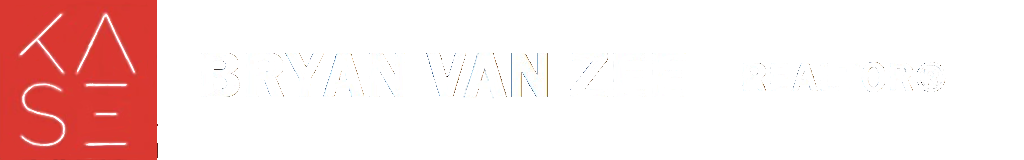
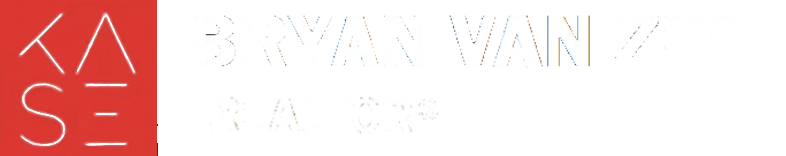
tweaked stuff

diff --git a/website/templates/index.html b/website/templates/index.html
@@ -43,9 +43,9 @@
   	
 
 </div>
-</br>
 
-<div class="container">
+
+
 	<div class="hero-warp">
 		<form class="main-search-form">
 			<div class="search-type">
@@ -77,15 +77,59 @@
 			<p>Lorem ipsum dolor sit amet, consectetur adipiscing elit, sed do eiusmod tempor incididunt ut labore et dolore magna aliqua. Quis ipsum suspendisse ultrices gravida. </p>
 		</form>
 	</div>
-	</div>
-
-	
-	
-	<!-- welcome section end -->
+	</BR>
 
 
+	<!-- Property Section -->
+	<section class="property-section">
+		<div class="container">
+			<h1><STRONG>FEATURED LISTINGS</STRONG></h1>
+			<div class="section-title">
+			</div>
+			<div class="row">
+				<div class="col-lg-4">
+					<div class="property-item">
+						<div class="pi-image">
+							<img src="{% static 'website/img/property/1.jpg' %}" alt=""> 
+							<div class="pi-badge new">New</div>
+						</div>
+						<h3>$469,000</h3>
+						<h5>3 Bedrooms Townhouse</h5>
+						<p>Donec eget efficitur ex. Donec eget dolor vitae eros feugiat tristique id vitae massa. Proin vulputate congue rutrum. Fusce lobortis a enim eget tempus. Class aptent taciti sociosqu ad litora.</p>
+						<a href="{% url 'listing1' %}" class="readmore-btn">Find out more</a>
+					</div>
+				</div>
+				<div class="col-lg-4">
+					<div class="property-item">
+						<div class="pi-image">
+							<img src="{% static 'website/img/property/2.jpg' %}" alt=""> 
+							<div class="pi-badge offer">Offer</div>
+						</div>
+						<h3>$369,000</h3>
+						<h5>3 Bedrooms Townhouse</h5>
+						<p>Donec eget efficitur ex. Donec eget dolor vitae eros feugiat tristique id vitae massa. Proin vulputate congue rutrum. Fusce lobortis a enim eget tempus. Class aptent taciti sociosqu ad litora.</p>
+						<a href="{% url 'listing1' %}" class="readmore-btn">Find out more</a>
+					</div>
+				</div>
+				<div class="col-lg-4">
+					<div class="property-item">
+						<div class="pi-image">
+							<img src="{% static 'website/img/property/3.jpg' %}" alt=""> 
+							<div class="pi-badge new">New</div>
+						</div>
+						<h3>$560,000</h3>
+						<h5>3 Bedrooms Townhouse</h5>
+						<p>Donec eget efficitur ex. Donec eget dolor vitae eros feugiat tristique id vitae massa. Proin vulputate congue rutrum. Fusce lobortis a enim eget tempus. Class aptent taciti sociosqu ad litora.</p>
+						<a href="{% url 'listing1' %}" class="readmore-btn">Find out more</a>
+					</div>
+				</div>
+			</div>
+		</div>
+	</section>
 
-	<!-- Intro Section end -->
+
+
+<!-- Intro Section end -->
 	<section class="intro-section spad">
 		<div class="container">
 			<div class="section-title">
@@ -117,55 +161,7 @@
 			</div>
 		</div>
 	</section>
-	<!-- Intro Section end -->
 
-	<!-- Property Section -->
-	<section class="property-section">
-		<div class="container">
-			<div class="section-title">
-				<h2>Recently Add Homes</h2>
-			</div>
-			<div class="row">
-				<div class="col-lg-4">
-					<div class="property-item">
-						<div class="pi-image">
-							<img src="{% static 'website/img/property/1.jpg' %}" alt=""> 
-							<div class="pi-badge new">New</div>
-						</div>
-						<h3>$469,000</h3>
-						<h5>3 Bedrooms Townhouse</h5>
-						<p>Donec eget efficitur ex. Donec eget dolor vitae eros feugiat tristique id vitae massa. Proin vulputate congue rutrum. Fusce lobortis a enim eget tempus. Class aptent taciti sociosqu ad litora.</p>
-						<a href="#" class="readmore-btn">Find out more</a>
-					</div>
-				</div>
-				<div class="col-lg-4">
-					<div class="property-item">
-						<div class="pi-image">
-							<img src="{% static 'website/img/property/2.jpg' %}" alt=""> 
-							<div class="pi-badge offer">Offer</div>
-						</div>
-						<h3>$369,000</h3>
-						<h5>3 Bedrooms Townhouse</h5>
-						<p>Donec eget efficitur ex. Donec eget dolor vitae eros feugiat tristique id vitae massa. Proin vulputate congue rutrum. Fusce lobortis a enim eget tempus. Class aptent taciti sociosqu ad litora.</p>
-						<a href="#" class="readmore-btn">Find out more</a>
-					</div>
-				</div>
-				<div class="col-lg-4">
-					<div class="property-item">
-						<div class="pi-image">
-							<img src="{% static 'website/img/property/3.jpg' %}" alt=""> 
-							<div class="pi-badge new">New</div>
-						</div>
-						<h3>$560,000</h3>
-						<h5>3 Bedrooms Townhouse</h5>
-						<p>Donec eget efficitur ex. Donec eget dolor vitae eros feugiat tristique id vitae massa. Proin vulputate congue rutrum. Fusce lobortis a enim eget tempus. Class aptent taciti sociosqu ad litora.</p>
-						<a href="#" class="readmore-btn">Find out more</a>
-					</div>
-				</div>
-			</div>
-		</div>
-	</section>
-	<!-- Property Section end -->
 
 	<!-- Loan Section end -->
 	<section class="loan-section">

diff --git a/website/templates/base.html b/website/templates/base.html
@@ -43,7 +43,7 @@
   <!-- Header Section -->
   <header class="header-section">
     <a href="#" class="site-logo">
-      <img src="{% static 'website/img/BVZ.png' %}" alt="" width="450">   
+      <img src="{% static 'website/img/BVZ.png' %}" alt="" width="300">   
     </a></br>
     <nav class="header-nav">
       <ul class="main-menu">
@@ -79,7 +79,7 @@
           <div class="footer-widger">
             <div class="about-widget">
               <div class="aw-text">
-                <img src="{% static 'website/img/footer-logo.png' %}" alt="">
+                <img src="{% static 'website/img/logo2.png' %}" alt="">
                 <p>Donec eget efficitur ex. Donec eget dolor vitae eros feugiat tristique id vitae massa. Proin vulputate cong ue rutrum. Fusce lobortis a enim eget tempus. </p>
                 <a href="#" class="site-btn">we are hiring</a>
               </div>
